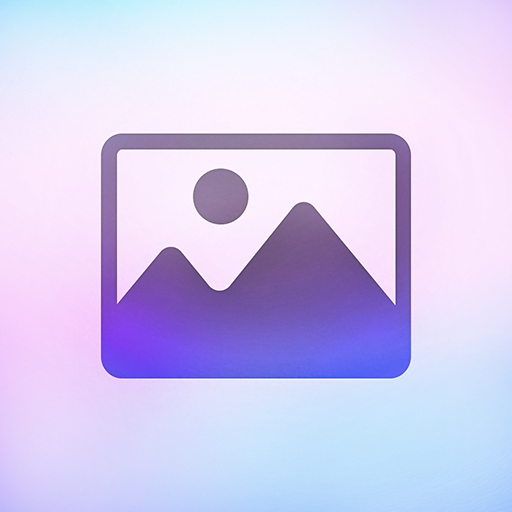
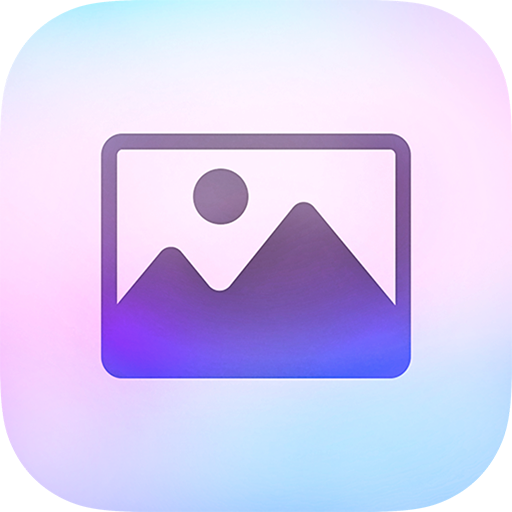
Improve the apps page

diff --git a/apps.html b/apps.html
@@ -2,39 +2,92 @@
 layout: default
 ---
 
+<style>
+.ios-app-icon {
+	padding: 14px;
+}
+
+.box {
+	border: 1px solid rgb(0 0 0 / 0.03);
+}
+
+@media screen and (max-width: 540px) {
+	.media-left img {
+		width: 64px;
+		height: 64px;
+	}
+
+	.ios-app-icon {
+		padding: 6px;
+	}
+
+	#apps .column {
+		margin: 0 !important;
+		padding: 0;
+	}
+
+	#apps .column .box {
+		box-shadow: none;
+		border-radius: unset;
+		padding-left: 0;
+		padding-right: 10px;
+		padding-top: 1.5rem !important;
+		padding-bottom: 1.5rem !important;
+		border: 0;
+		border-bottom: 1px solid rgb(0 0 0 / 0.1);
+	}
+
+	#apps .column:last-of-type .box {
+		border-bottom: 0;
+	}
+
+	#apps .column .box .title {
+		font-size: 1.6rem !important;
+		margin-bottom: 24px !important;
+	}
+
+	#apps .column .box .subtitle {
+		font-size: 1.1rem !important;
+	}
+}
+</style>
+
 <section class="section hero is-fullheight is-default is-bold">
-	<div id="apps" class="container">
+	<div id="apps" class="container" style="margin-bottom: 40px">
 		<h2 class="title is-2">Apps</h2>
 		<p>If you're a student, open-source maintainer, or cannot afford my paid apps, <a href="/contact?subject=Free%20promo%20code%20for%20%5Bapp%5D">reach out</a>, and I'll give you any of my apps for free.</p>
 		<p>You can get 3 of my macOS menu bar apps in a bundle for <a href="https://apps.apple.com/app-bundle/id1439413445">50% off</a>.</p>
 		<br>
-		<div class="columns is-multiline">
+		<div class="columns is-variable is-5 is-multiline is-desktop">
 			{% for app in site.apps reversed %}
-			<div class="column is-mobile is-half-tablet is-one-third-desktop">
+			<div class="column is-half-desktop" style="margin: 0.6rem 0">
 				<a href="{% if app.external_url %}{{ app.external_url }}{% else %}{{ app.url }}{% endif %}">
 					<div class="box">
-						<figure class="image">
-							{% comment %}
-								This mess is needed because we don't know the extension of the thumbnail upfront...
-							{% endcomment %}
-
-							{% for file in site.static_files %}
-								{% assign path = '/assets/' | append: app.slug | append: '/thumbnail' %}
-								{% if file.path contains path %}
-									<img src="{{ file.path }}" width="1440" height="800">
-								{% endif %}
-							{% endfor %}
-						</figure>
-						<h2 class="title">
-							<span>{{ app.title }}</span>
-							{% if app.is_prerelease %}
-								<span class="tag is-small is-info">Prerelease</span>
-							{% elsif forloop.first %}
-								<span class="tag is-small is-success">New!</span>
-							{% endif %}
-							<span class="tag is-small">{{ app.type }}</span>
-						</h2>
-						<p class="subtitle is-6">{{ app.subtitle }}</p>
+						<article class="media" style="padding:6px">
+							<div class="media-left" style="align-self: center">
+								<img class="{% if app.type == 'iOS' %}ios-app-icon{% endif %}" src="{{ relative_path }}/assets/{{ app.slug }}/icon.png" width="128" height="128">
+							</div>
+							<div class="media-content" style="align-self: center">
+								<h2 class="title is-3">{{ app.title }}</h2>
+								<p class="subtitle is-5" style="margin-bottom: 0.3rem">{{ app.subtitle }}</p>
+								<div>
+									{% if app.is_prerelease %}
+										<span class="tag is-small is-info">prerelease</span>
+									{% elsif forloop.first %}
+										<span class="tag is-small is-success">new!</span>
+									{% endif %}
+									<span class="tag is-small is-info is-light">{{ app.type }}</span>
+									{% if app.is_paid %}
+										<span class="tag is-small">paid</span>
+									{% else %}
+										<span class="tag is-small">free</span>
+									{% endif %}
+									{% if app.repo_url %}
+										<span class="tag is-small">open-source</span>
+									{% endif %}
+								</div>
+							</div>
+						</article>
 					</div>
 				</a>
 			</div>

diff --git a/_apps/gifski.html b/_apps/gifski.html
@@ -4,9 +4,9 @@ subtitle: Convert videos to high-quality GIFs
 description: Gifski is a macOS app for the <a href="https://gif.ski">gifski encoder</a>, which converts videos to GIF animations using <a href="https://pngquant.org">pngquant</a>'s fancy features for efficient cross-frame palettes and temporal dithering. It produces animated GIFs that use thousands of colors per frame. <br><br>If you don't have a video, you can try the app out with <a href="https://dsc.cloud/sindresorhus/input-test.mp4">this one</a>.<br><br><p>Created by <a href="https://github.com/sindresorhus">Sindre Sorhus</a> and <a href="https://github.com/kornelski">Kornel Lesiński</a>.</p>
 type: macOS
 date: 2018-02-23
+repo_url: https://github.com/sindresorhus/Gifski
 app_store_app_id: 1351639930
 mac_app_store_url: https://apps.apple.com/app/id1351639930
-repo_url: https://github.com/sindresorhus/Gifski
 main_button:
   title: Read more
   url: https://blog.sindresorhus.com/gifski-972692460aa5

diff --git a/_apps/plash.html b/_apps/plash.html
@@ -4,6 +4,7 @@ subtitle: Make any website your desktop wallpaper
 description: 'This enables you to have a highly dynamic desktop wallpaper. You could display your favorite news site, Facebook feed, or a random beautiful scenery photo. The use-cases are limitless. You could even set an animated GIF as wallpaper.'
 type: macOS
 date: 2020-01-09
+repo_url: https://github.com/sindresorhus/Plash
 app_store_app_id: 1494023538
 mac_app_store_url: https://apps.apple.com/app/id1494023538
 main_button:

diff --git a/_apps/blear.html b/_apps/blear.html
@@ -4,7 +4,7 @@ subtitle: Transform photos into blurry wallpapers
 description: Blear lets you easily transform your own photos or the bundled ones into stunning blurry wallpapers for your device. Make your Home/Lock screen shine! (Open source)
 type: iOS
 date: 2015-06-09
+repo_url: https://github.com/sindresorhus/blear
 app_store_app_id: 994182280
 app_store_url: https://apps.apple.com/app/id994182280
-repo_url: https://github.com/sindresorhus/blear
 ---

diff --git a/_apps/black-out.html b/_apps/black-out.html
@@ -4,6 +4,7 @@ subtitle: Hide sensitive parts of an image
 description: Black Out is a macOS app that lets you quickly hide sensitive parts of an image. This can be useful when you want to post a screenshot or photo on the web that contains some information you don't want revealed.
 type: macOS
 date: 2017-12-01
+is_paid: true
 app_store_app_id: 1319884285
 app_store_url: https://apps.apple.com/app/id1319884285
 main_button:

diff --git a/_apps/pasteboard-viewer.html b/_apps/pasteboard-viewer.html
@@ -3,6 +3,7 @@ title: Pasteboard Viewer
 subtitle: Inspect the system pasteboards
 type: macOS
 date: 2020-02-18
+repo_url: https://github.com/sindresorhus/Pasteboard-Viewer
 app_store_app_id: 1499215709
 mac_app_store_url: https://apps.apple.com/app/id1499215709
 main_button:

diff --git a/_layouts/app.html b/_layouts/app.html
@@ -22,10 +22,6 @@ layout: default
 	#icon {
 		filter: drop-shadow(0px 1px 3px #D5D5D5);
 		width: 200px;
-
-		{% if page.type == 'iOS' %}
-		border-radius: 40px;
-		{% endif %}
 	}
 
 	.app-buttons {

diff --git a/_apps/lungo.md b/_apps/lungo.md
@@ -4,6 +4,7 @@ subtitle: Prevent your Mac from going to sleep
 description: Lungo is a macOS app that prevents your Mac from falling asleep and your screen from dimming.
 type: macOS
 date: 2017-07-26
+is_paid: true
 app_store_app_id: 1263070803
 mac_app_store_url: https://apps.apple.com/app/id1263070803
 setapp_url: https://go.setapp.com/stp181?_target=https://setapp.com/apps/lungo
@@ -49,7 +50,7 @@ Yes, choose “Activate on Left-click” in the preferences.
 
 I don't have any immediate plans to localize the app.
 
-####  How is it different from Amphetamine?
+#### How is it different from Amphetamine?
 
 Amphetamine has lots of features. Most of which I would never use. It ships with a myriad of menu bar icons to choose from, but none that looks good. With Lungo, I wanted a focused and simple app with great defaults.
 

diff --git a/_apps/pandan.md b/_apps/pandan.md
@@ -15,7 +15,7 @@ mac_app_store_url: https://apps.apple.com/app/id1569600264
 
 [Send it here.](https://sindresorhus.com/feedback/?product=Pandan&referrer=Website-FAQ)
 
-#### Can you make the history be further back than 30 days?
+#### Can you make the history be further back than 60 days?
 
 The history is intentionally limited. Pandan is about time awareness right now, not analyzing past behavior. If you need more stats and graphs, check out the system [Screen Time](https://support.apple.com/en-gb/HT210387) feature.
 

diff --git a/_apps/dato.md b/_apps/dato.md
@@ -4,6 +4,7 @@ subtitle: Better menu bar clock with calendar and time zones
 description: Dato gives you a local clock, date, and multiple world clocks in the menu bar. When you click Dato in the menu bar, you get a menu with a calendar, calendar events, and world clocks. All of this is highly customizable.
 type: macOS
 date: 2019-07-13
+is_paid: true
 app_store_app_id: 1470584107
 mac_app_store_url: https://apps.apple.com/app/id1470584107
 ---

diff --git a/_apps/battery-indicator.md b/_apps/battery-indicator.md
@@ -4,6 +4,7 @@ subtitle: Remaining battery time in your menu bar
 description: Battery Indicator lets you quickly glance the remaining battery time or percentage right in your menu bar.
 type: macOS
 date: 2017-02-18
+is_paid: true
 app_store_app_id: 1206020918
 app_store_url: https://apps.apple.com/app/id1206020918
 ---

diff --git a/_apps/system-color-picker.md b/_apps/system-color-picker.md
@@ -3,6 +3,7 @@ title: System Color Picker
 subtitle: The macOS color picker as an app with more features
 type: macOS
 date: 2021-05-01
+repo_url: https://github.com/sindresorhus/System-Color-Picker
 app_store_app_id: 1545870783
 mac_app_store_url: https://apps.apple.com/app/id1545870783
 main_button:
